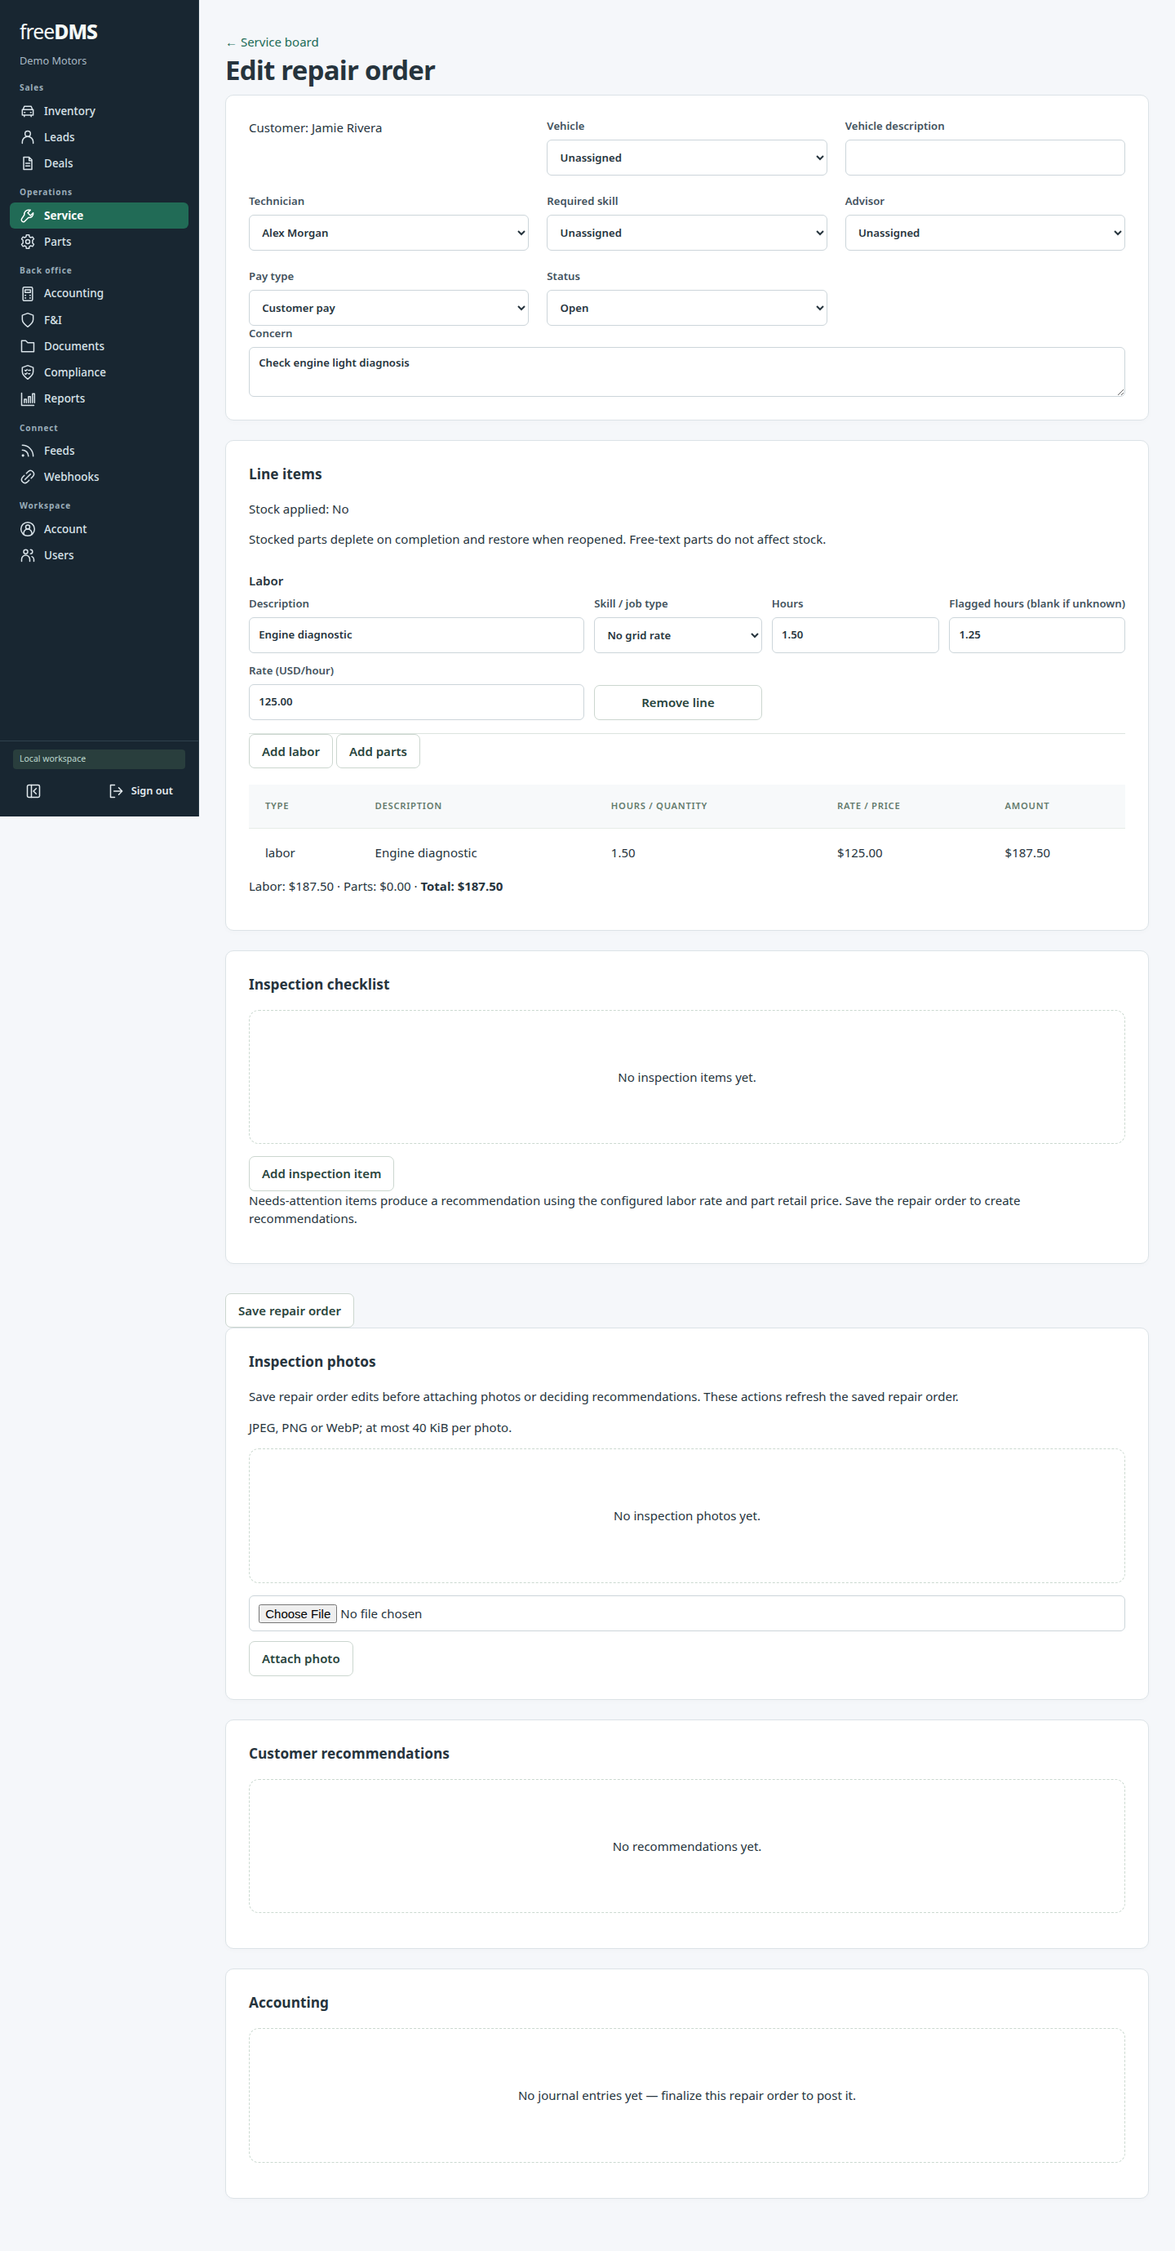
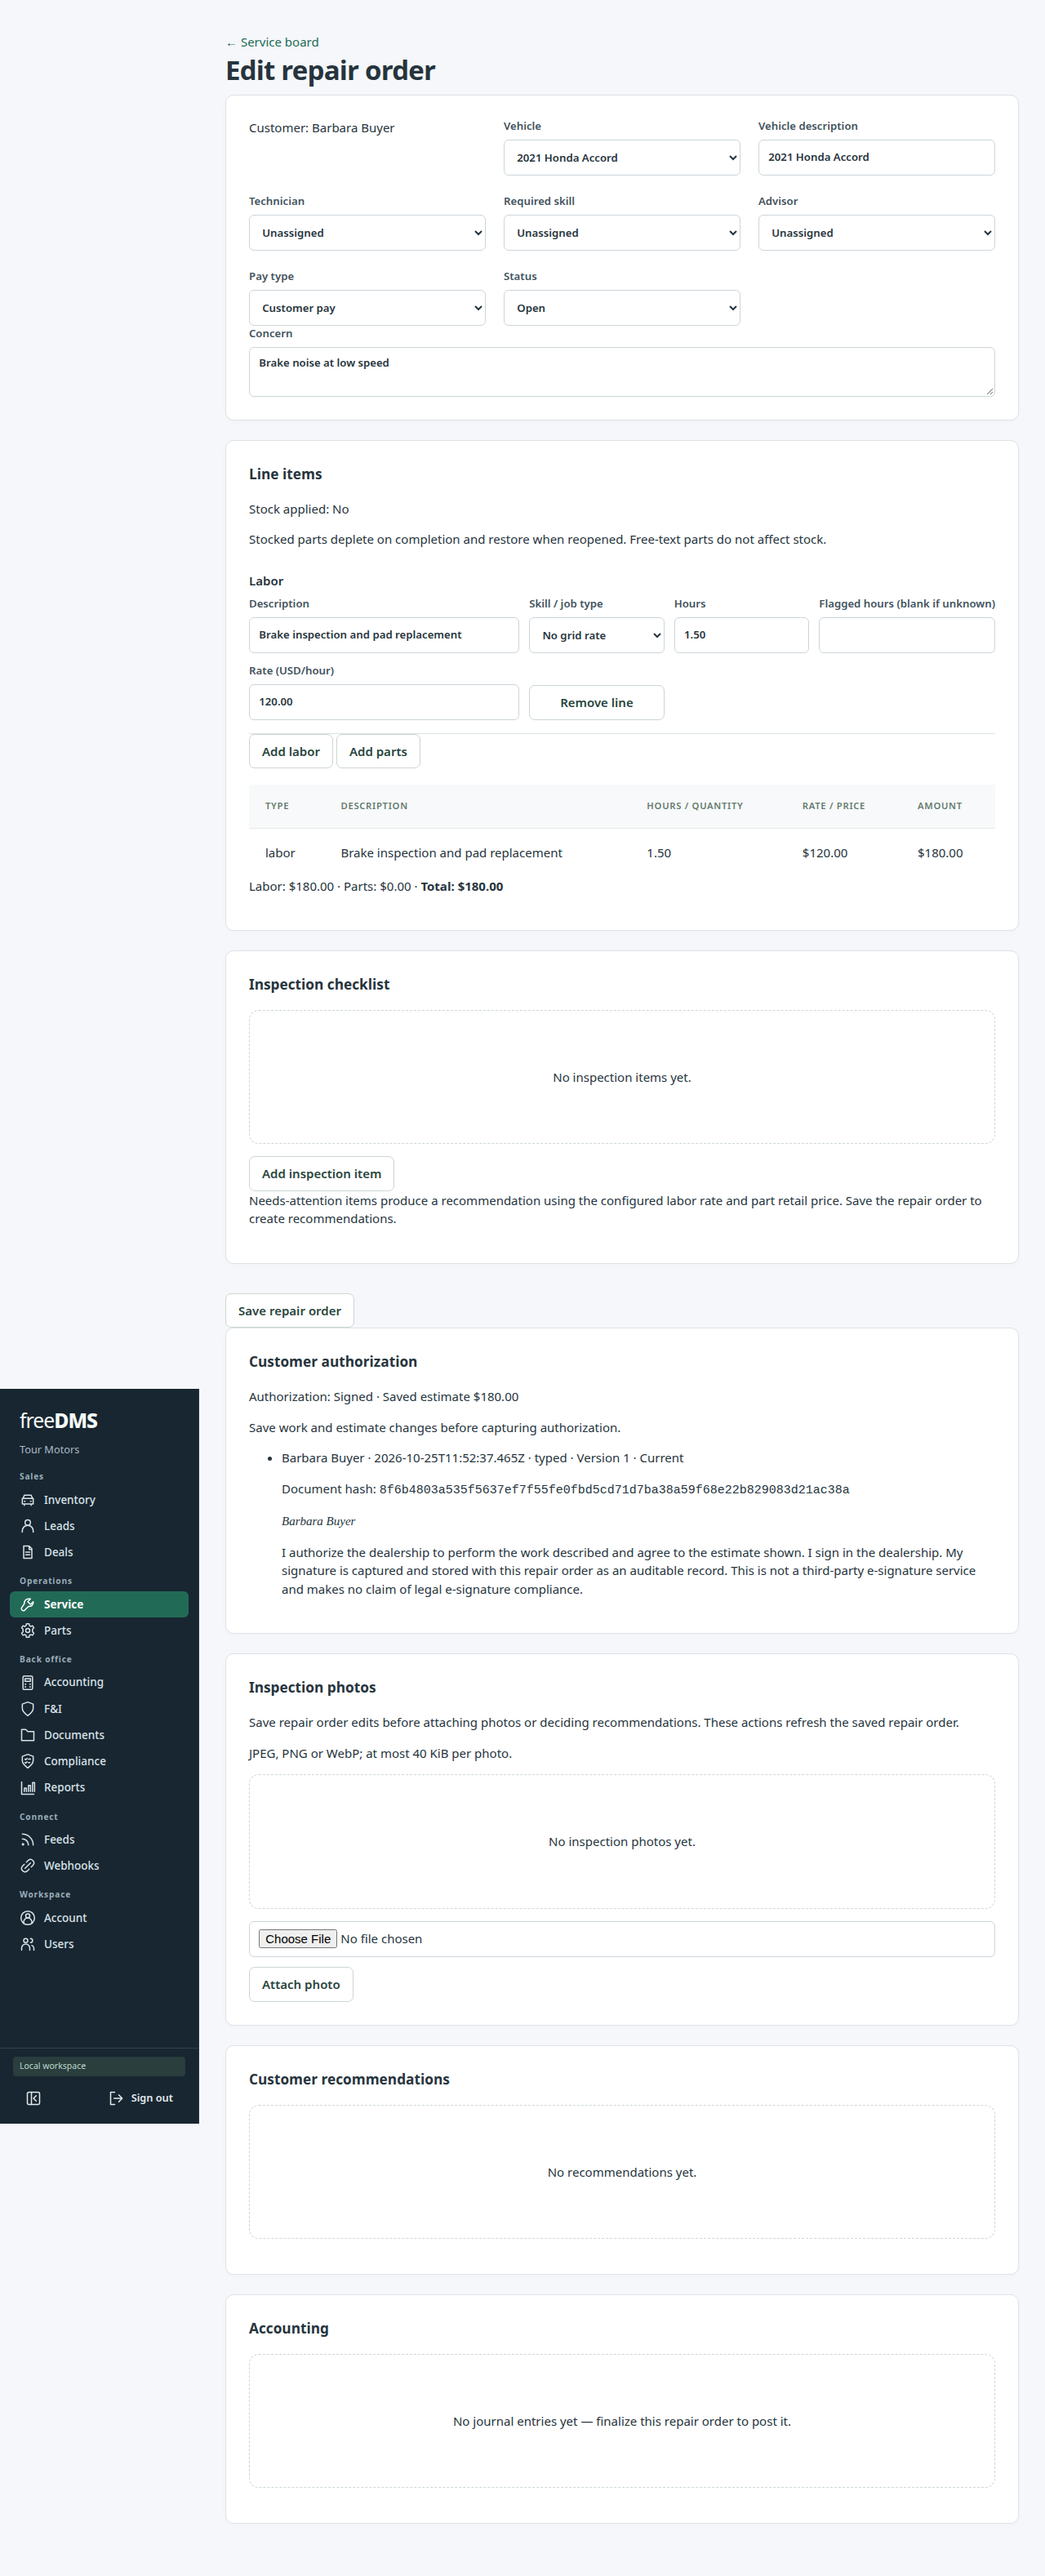
docs: refresh README screenshots for signature capture (#31)

diff --git a/README.md b/README.md
@@ -114,7 +114,8 @@ payoff quotes sit on the same page.
 ![Credit application](docs/screenshots/credit-application.png)
 
 **Deal jacket** — buyer's order, FTC Buyers Guide, attachments, the
-completeness checklist, and any accepted F&I products.
+completeness checklist, and any accepted F&I products. The buyer's order
+here is signed in store; the record shows the signer, time, and document hash.
 
 ![Deal jacket](docs/screenshots/deal-jacket.png)
 
@@ -134,7 +135,8 @@ free-text and stocked parts, inspection
 checklists and photos, and customer recommendations with recorded approvals/declines.
 Completion applies stock once and posts the journal entry shown at the bottom;
 reopening restores the stock and reverses the entry. Negative stock requires an
-explicit override and leaves a visible warning.
+explicit override and leaves a visible warning. The customer authorization
+below the form is signed in store against the $180.00 estimate.
 
 ![Repair order](docs/screenshots/repair-order.png)
 
